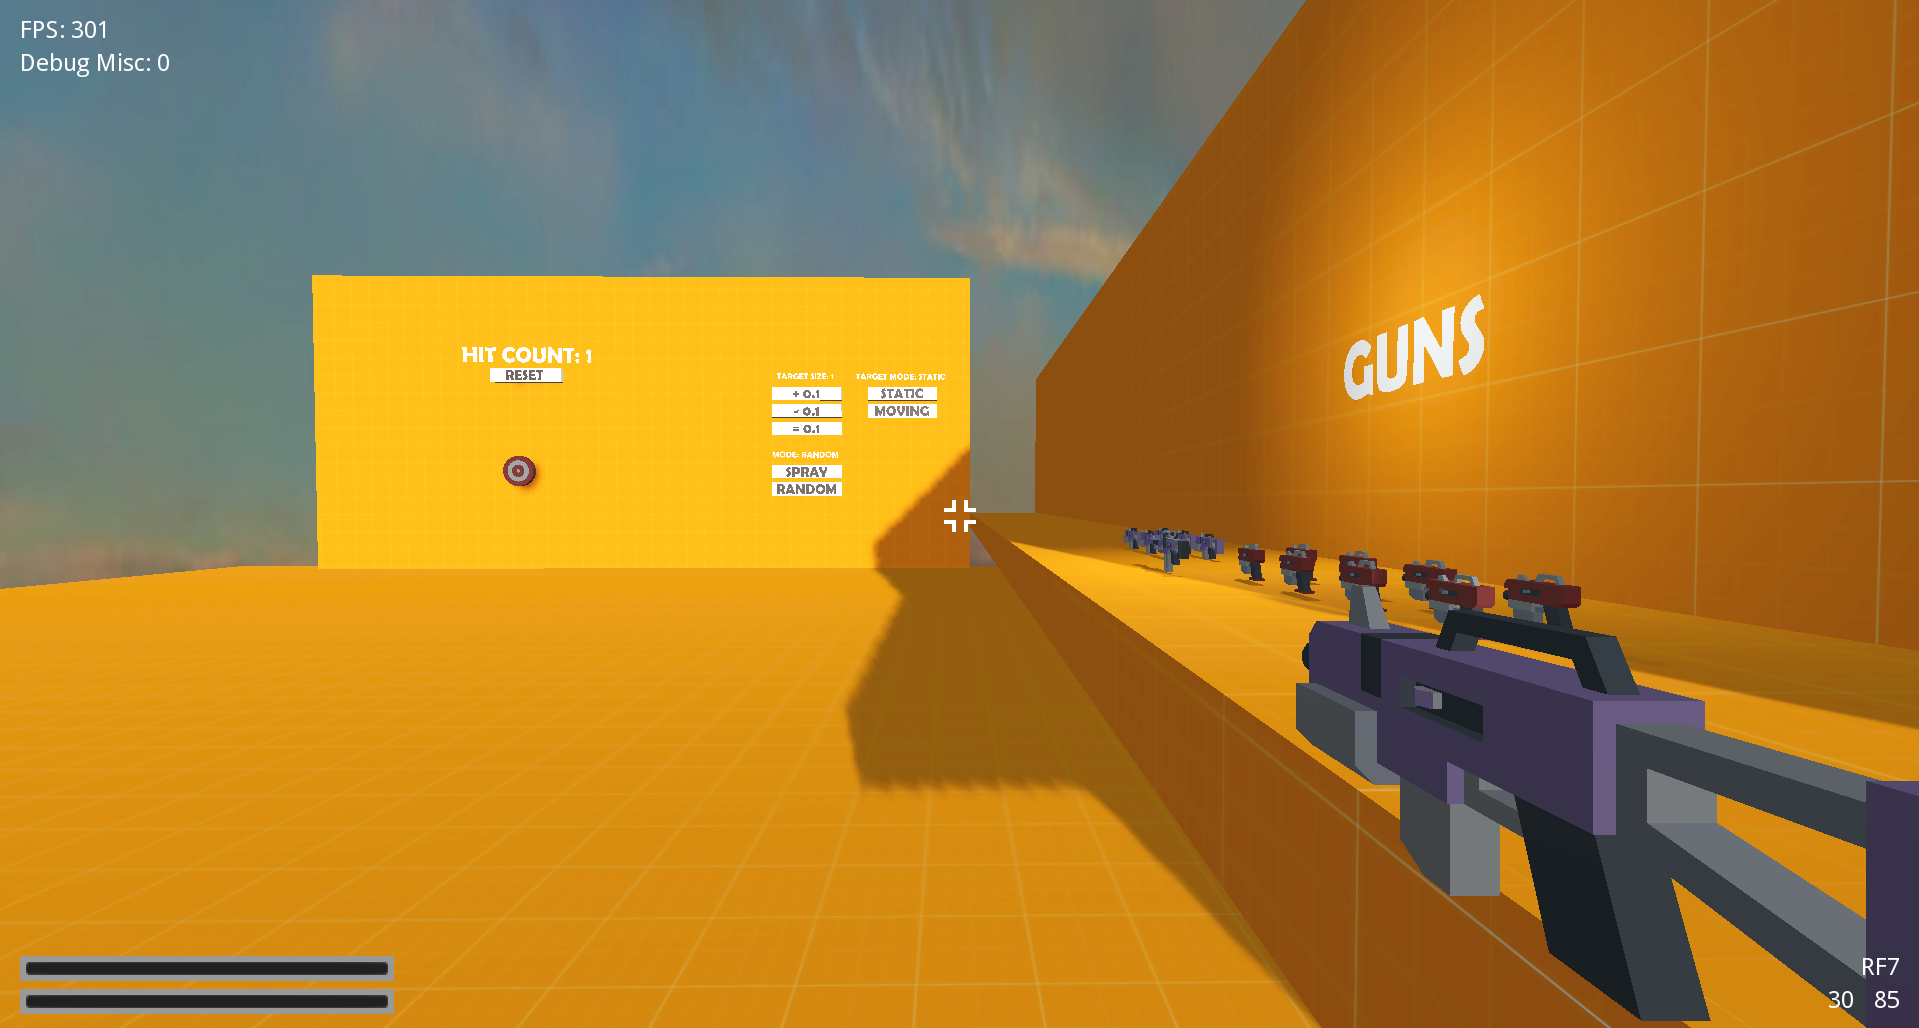
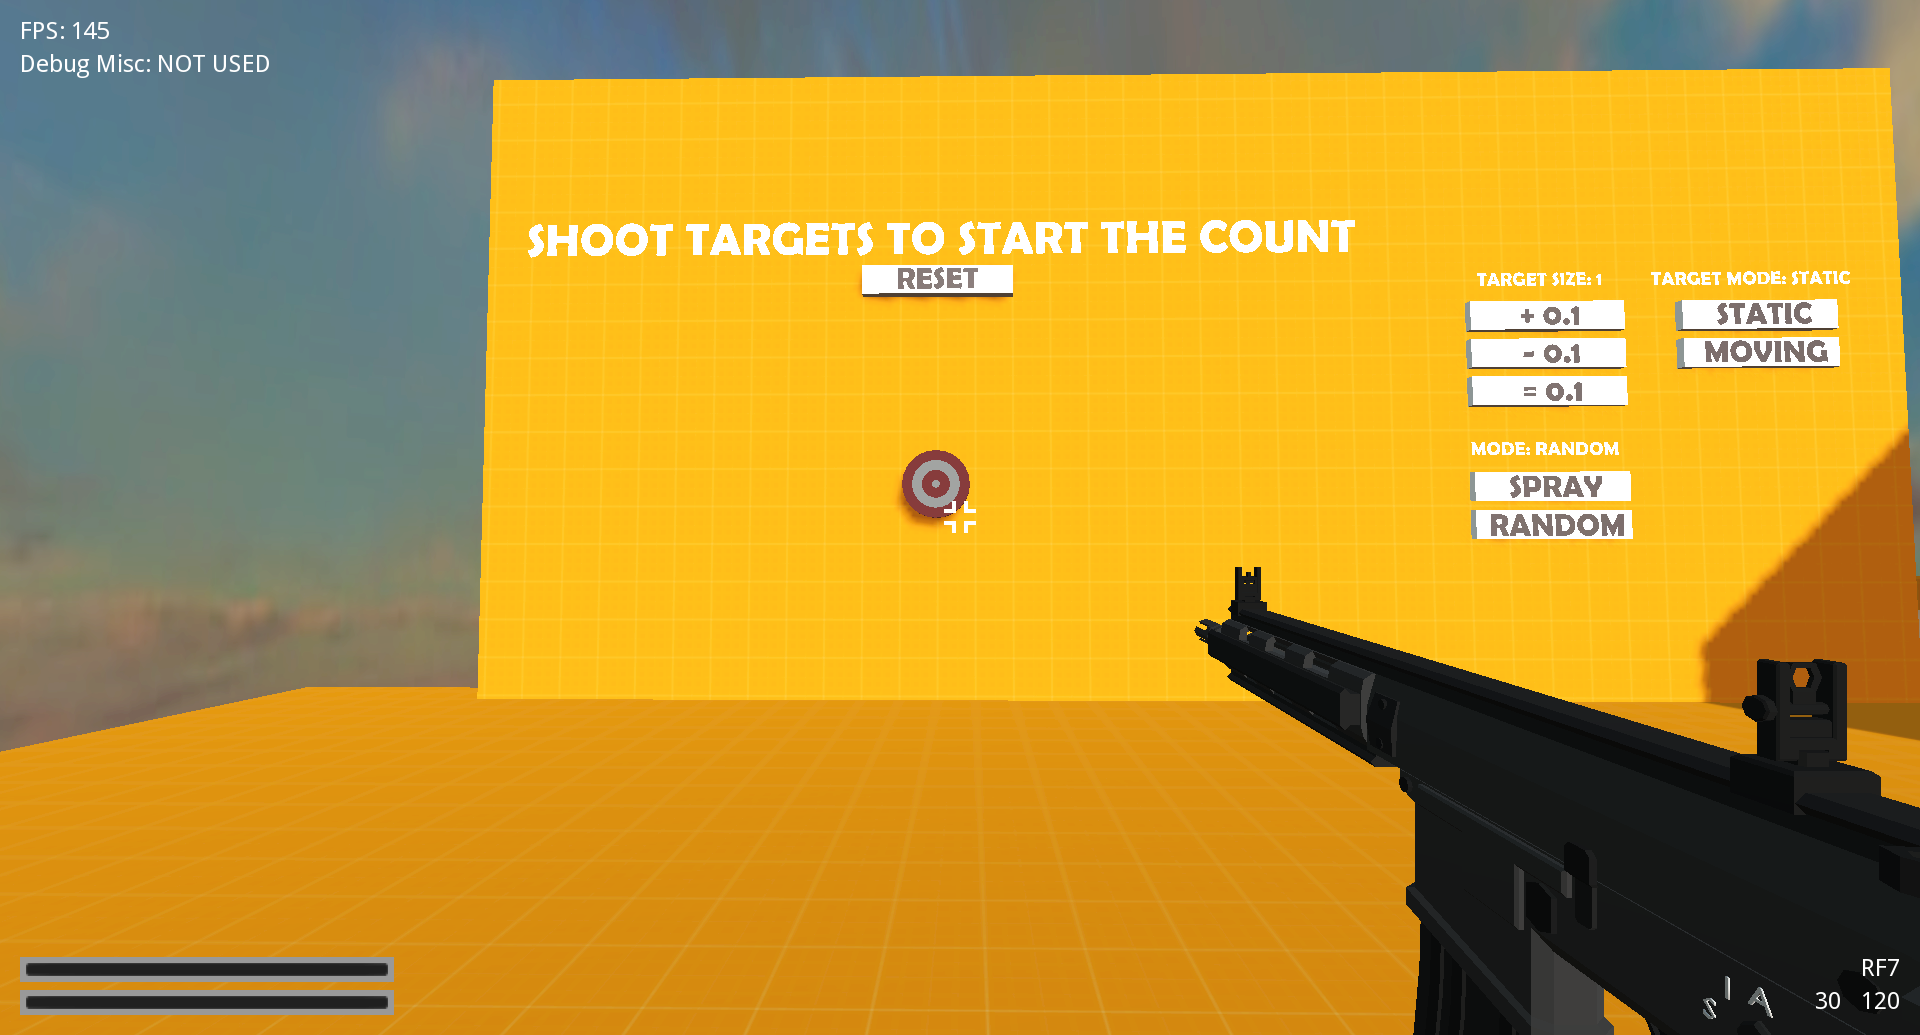
Resolve "Update Screenshot"

diff --git a/README.md b/README.md
@@ -14,6 +14,8 @@ This screenshot is last updated Sunday, March 20, 2022 8:46:54 PM GMT+07:00.
 ![Pause Menu - Option](documents/assets/gameplay_pause_menu_option.png)
 ![Pause Menu - No Menu Selected](documents/assets/gameplay_pause_menu.png)
 ![Gameplay](documents/assets/gameplay.png)
+![Gameplay](documents/assets/gameplay_weapon_show_off.png)
+![Gameplay](documents/assets/gameplay_sniper_show_off.png)
 
 # Table Of Contents
 - [The Solver Series](#the-solver-series)
@@ -21,7 +23,7 @@ This screenshot is last updated Sunday, March 20, 2022 8:46:54 PM GMT+07:00.
 - [Table Of Contents](#table-of-contents)
   - [How to Contribute](#how-to-contribute)
   - [Roadmap](#roadmap)
-    - [**Project Solver: Training**](#project-solver-training)
+    - [**Project Solver: Training** (CURRENT PHASE)](#project-solver-training-current-phase)
     - [**Project Solver: 1v1**](#project-solver-1v1)
     - [**Project Solver: 5v5**](#project-solver-5v5)
   - [Technical FAQ](#technical-faq)
@@ -34,20 +36,47 @@ Please read [CONTRIBUTING.md](CONTRIBUTING.md) for further assistance.
 
 Right now, the project does have milestones and an end game for the lifetime of the project. The endgame itself is not the end of the project, but rather the start of a new era where every single feature is implemented at least for a prototype. The project is called "Project Solver". "Project Solver" is a game that would evolve using the effort of the developer and or community, until the "perfect" or at least "usable" game could exist. Below is the list of games and their features.
 
-### **Project Solver: Training**
+### **Project Solver: Training** (CURRENT PHASE)
 
 The first game in Project Solver that's all about aiming and training. It features customizations and offline capabilities for those who wants it. The game itself would focus on self improvement in the aiming department and will feature source-like movement as its main locomotion system. The features intended to be in the game is listed below.
 
-- [ ] Easy to use UI customization that also includes an export and import function, for portability.
-- [ ] Importing aim settings from other games.
-- [x] Variety of target to shot at.
-- [x] Different guns for different needs.
-- [x] Movement system that's inspired by the Counter Strike series.
+- [x] Variety of target to shot at
+- [x] Different weapons for different needs
+  - [ ] Guns
+    - [x] General Concepts
+      - [x] Spray Pattern
+      - [x] Recoil
+      - [x] Inaccuracy (e.g. based on movement)
+      - [x] Bullet Penetration
+    - [x] Automatic Weapon (e.g. AK-47)
+    - [x] Semi-Automatic Weapon (e.g. M9 Pistol)
+    - [x] Scoped Semi-Automatic Weapon (e.g. Sniper Rifle)
+    - [ ] Shotgun
+  - [ ] Utilities
+    - [x] General Concepts
+      - [x] Right Click vs Left Click Throw
+      - [x] Timed Detonation
+    - [ ] Frag Grenade
+    - [ ] Smoke Grenade
+    - [ ] Flash Grenade
+    - [ ] Incendiary Grenade
+- [x] Training Methods
+  - [x] Spray Practice
+  - [x] Moving Target Practice
+  - [x] Time Attack Practice (shoot target through corridor as fast as possible)
+- [x] Movement system that's inspired by the Counter Strike series
   - [x] Crouch Jumping
   - [x] Bunny Hopping
   - [x] Air Strafing
   - [x] Counter Strafing
-- [x] Light weight experience that's not only targeting the toaster, but also your beefed up $500,000, NASA made, super computer.
+- [ ] Sound Design
+- [ ] Animation
+- [x] Light weight experience that's not only targeting the toaster, but also your beefed up $500,000, NASA made, super computer
+- [ ] Easy to use UI customization that also includes an export and import function, for portability.
+- [ ] Importing mouse sensitivity from other games
+  - [ ] CSGO
+  - [ ] Valorant
+  - [ ] Call Of Duty
 
 ### **Project Solver: 1v1**
 
